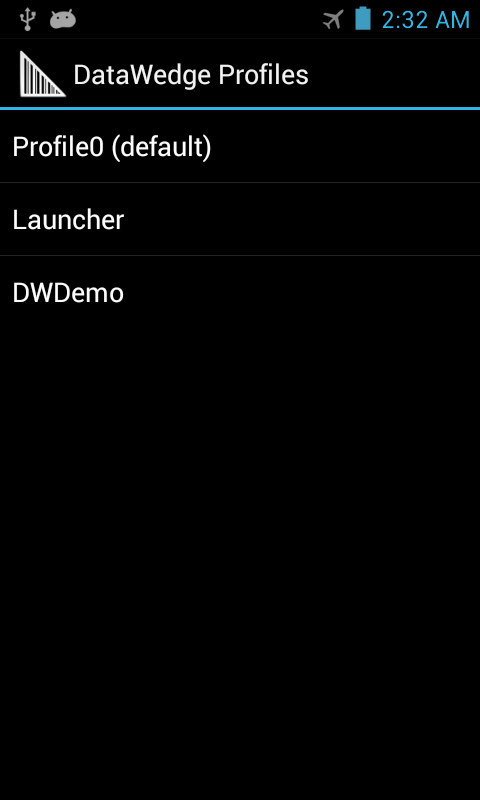
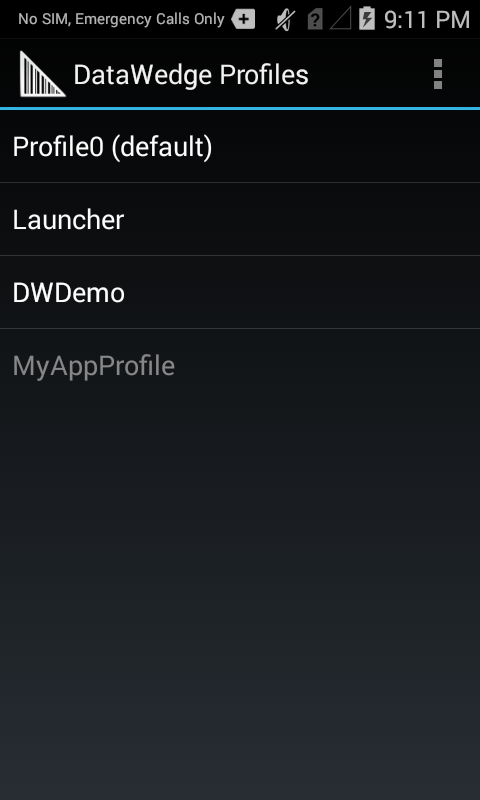
DW ongoing Setup Guide work

diff --git a/src/datawedge/3-1/guide/setup/index.md b/src/datawedge/3-1/guide/setup/index.md
@@ -17,17 +17,18 @@ Each Profile generally contains four elements:
 
 When associated with an app, DataWedge can be invoked to scan and acquire (input) the data, format or append (process) it in a specified way, and pass (output) it to the associated app when the app comes to the foreground. DataWedge also includes Profile0, which works with any application currently in the foreground and contains baseline settings that can be tailored to individual needs. This allows DataWedge to be used out of the box with no little or no pre-configuration required. 
  
->**Note: This guide describes DataWedge for Android. Features and usage of Windows verions may vary slightly**.
+**Note: This guide describes DataWedge for Android. Features and usage of Windows verions may vary slightly**.
 
 ##Profiles
-Profiles contain information about how DataWedge should behave with the associated application, and allow each app to be associated with a specific set of DataWedge behaviors. For example, while "App A" might require that a TAB be sent after each dataset is passed from DataWedge, "App B" might require the ENTER key to be pressed. Through Profiles, DataWedge can be configured to process the same set of captured data according to the requirements of any number of individual applications. 
+Profiles contain information about how DataWedge should behave with the associated application, and provide a means to allow different apps that might be acquiring the same data to do different things with it. For example, while "App A" might require that a TAB be sent after each dataset is passed from DataWedge, "App B" might require the ENTER key to be pressed instead. Through Profiles, DataWedge can be configured to process the same set of captured data according to the requirements of any number of individual applications. 
 
-DataWedge includes a number of pre-configured Profiles for general needs or to support specific apps that are built into every device. Some of these, such as Profile0, are visible to the user and can be edited as needed. Others contain fixed parameters and are not visible to the user. 
+DataWedge includes a number of pre-configured Profiles for general needs or to support specific apps that are built into every device. Some of these, such as Profile0, are visible to the user and can be edited as needed. Others contain fixed parameters and are not visible or configurable. 
 
 #### Visible Profiles
-* **Profile0 -** a generic that takes effect for any unassociated foreground app. 
-* **Launcher -** used when tne Launcher screen is in the foreground.
-* **DWDemo -** used with DWDemo, the [DataWedge Demo app](../demo) app. When DWDemo comes to the foreground, data captured with DataWedge is handed to the DWDemo application.
+* **Profile0 -** is a generic that takes effect for any unassociated foreground app. 
+* **Launcher -** is used when the Launcher screen is in the foreground.
+* **DWDemo -** is used with DWDemo, the [DataWedge Demo app](../demo) app. When DWDemo comes to the foreground, data captured with DataWedge is handed to the DWDemo application.
+* **User-defined -** profiles are always visible and available for editing. 
 
 #### Hidden Profiles
 * **RD Client -** provides support for Zebra's Rapid Deploy app and third-party MDM solutions.
@@ -85,88 +86,59 @@ Output Plug-ins send the processed data to the associated application or server.
 **The IP Output Plug-in** allows captured data to be sent to a specified IP address and port using either TCP or UDP transport protocols to a Windows server running Zebra IPWedge software. Please refer to the [IP Output Guide](../ipoutput) for further information. 
 
 ## Create a Profile
-This section provides step-by-step instructions for creating a DataWedge Profile, which includes plug-ins for input, processing and output, and an association with an app. These steps are required for every app that's intended to use DataWedge as its scanning services provider. 
+This section provides step-by-step instructions for creating a DataWedge Profile, which includes plug-ins for input, processing and output, plus association with an app. Use these steps for every app that will call on DataWedge as its scanning services provider. 
 
 ### Quick Steps
-To enable DataWedge scanning services for an app, perform the following steps* on the device:
+To enable DataWedge scanning services for an app, perform the following steps on an Android device:
 
 1. **Install the app** that will use DataWedge for scanning. 
-2. **Start DataWedge** app. 
-3. In DataWedge, select **Menu->New Profile**. 
-4. **Enter a name and tap OK**. The new profile will appear in the Profiles list. 
+2. **Start DataWedge** app and navigate to the Profiles list (if not shown by default).  
+3. Tap on the Profiles screen's "hamburger" menu and **select -> New profile**. 
+4. **Enter a name for the Profile and tap OK**. The new profile will appear in the Profiles list. 
 5. Tap on the new profile.
 6. **Select Associated Apps** from the Applications section.
-7. Select **Menu->New app/activity**. A list of installed apps will appear. 
+7. In the Hamburger menu, **select -> New app/activity**. A list of installed apps will appear. 
 8. Select your app's package name (scrolling down, if necessary).
 9. **Tap the asterisk** (*) to associate all of your app's activities with DataWedge. 
 10. Tap the device's Back button until the new Profile's Settings screen appears.
 11. Confirm that the 'Profile enabled' checkbox is checked. 
-12. **Uncheck the 'Enabled' checkboxes of the Barcode Input, Keystroke Output and Intent Output sections**. 
+12. **Confirm that the Barcode Input and Keystroke Output checkboxes are 'Enabled'**. 
 
-The app is now associated with DataWedge for scanning. Test and adjust input, processing and output parameters as necessary. 
+The app is now associated with DataWedge for scanning. Test and adjust input, processing and output parameters as necessary.
 
-&#42; *Steps shown are for Android; corresponding steps on Windows devices will vary slightly*.
-
-To launch DataWedge, touch  Home > DataWedge. The DataWedge Profiles screen appears. By default, three profiles appear:
+### Detailed Steps
 
 &#49;. Locate and <b>tap the DataWedge icon</b> from the Launcher or App Drawer to launch it:  
 <img style="height:350px" src="datawedge_launcher.png"/>
 <br>
 
-The DataWedge Profiles screen will appear similar to the image below: 
+On newly installed devices, the DataWedge Profiles screen will appear, showing the three default Profiles similar to the image below: 
 <img style="height:350px" src="Figure_1_ProfilesScreen.png"/>
+The white text of three default Profiles (Profile0, Launcher and DWDemo) indicates that all are enabled. The grey text of "MyAppProfile" shows that it's disabled. 
+
+**Note**: If DataWedge had been opened previously, it will reopen to the last used screen. If necessary, press BACK until the Profiles screen appears.  
 <br>
 
+&#50;. **Tap the "hamburger" menu and select New profile**.  
+<img style="height:350px" src="Figure_3_OptionsMenu.png"/>
+<br>
 
-Profiles contain information about how DataWedge should behave when providing scanning services for a particular application. 
+&#51;.  **Enter a new** for the new Profile. 
+<img style="height:350px" src="Figure_4_NewProfileNameDialog.png"/>
+<br>
 
-Profile information consists of:
+&#52;. 
+<img style="height:350px" src="Figure_5_ProfileConfigScreen.png"/>
+<br>
 
-Associated application
+&#53;. 
 
-Input plug-in configurations
+&#54;. 
 
-Output plug-in configurations
+&#55;. 
 
-Process plug-in configurations
+&#56;. 
 
-
-
-## Launcher
-
-DWDemo
-
-Profile0 is the default profile and is used when no other profile can be applied.
-
-DataWedge Profiles Screen
-Figure 1. DataWedge Profiles Screen
-Profile names are color coded. Enabled profiles are white and disabled profiles are gray.
-
-To configure a profile touch the profile name.
-
-Profile Context Menu
-Touch and hold a profile to open a context menu that allows additional actions to be performed on the selected profile.
-
-Profile Context Menu
-Figure 2. Profile Context Menu
-The profile context menu allows the profile to be edited (same as just touching a profile), renamed, deleted or cloned.
-
-Note    When a profile is cloned the application association will be empty in the new profile. This is according to the rule that two profiles cannot be associated with same application. All other settings will be identical.
-Options Menu
-Touch  Menu to open the options menu.
-
-DataWedge Options Menu
-Figure 3. DataWedge Options Menu
-The menu provides options to create a new profiles, access to general DataWedge settings and DataWedge version information.
-
-Disabling DataWedge
-To disable DataWedge:
-
-Touch  Home > DataWedge
-
-Touch  Menu > Settings
-
-Touch DataWedge enabled. The green check disappears from the checkbox indicating that DataWedge is disabled.
 
 Create a New Profile
 
@@ -587,4 +559,42 @@ Other DataWedge guides:
 * [DataWedge IP Output](../ipoutput)
 * [DataWedge API for Android](../androidapi)
 * [DataWedge Capture API](../capture)
+
+FROM ABOVE:
+
+## Launcher
+
+DWDemo
+
+Profile0 is the default profile and is used when no other profile can be applied.
+
+DataWedge Profiles Screen
+Figure 1. DataWedge Profiles Screen
+Profile names are color coded. Enabled profiles are white and disabled profiles are gray.
+
+To configure a profile touch the profile name.
+
+Profile Context Menu
+Touch and hold a profile to open a context menu that allows additional actions to be performed on the selected profile.
+
+Profile Context Menu
+Figure 2. Profile Context Menu
+The profile context menu allows the profile to be edited (same as just touching a profile), renamed, deleted or cloned.
+
+Note    When a profile is cloned the application association will be empty in the new profile. This is according to the rule that two profiles cannot be associated with same application. All other settings will be identical.
+Options Menu
+Touch  Menu to open the options menu.
+
+DataWedge Options Menu
+Figure 3. DataWedge Options Menu
+The menu provides options to create a new profiles, access to general DataWedge settings and DataWedge version information.
+
+Disabling DataWedge
+To disable DataWedge:
+
+Touch  Home > DataWedge
+
+Touch  Menu > Settings
+
+Touch DataWedge enabled. The green check disappears from the checkbox indicating that DataWedge is disabled.
 
